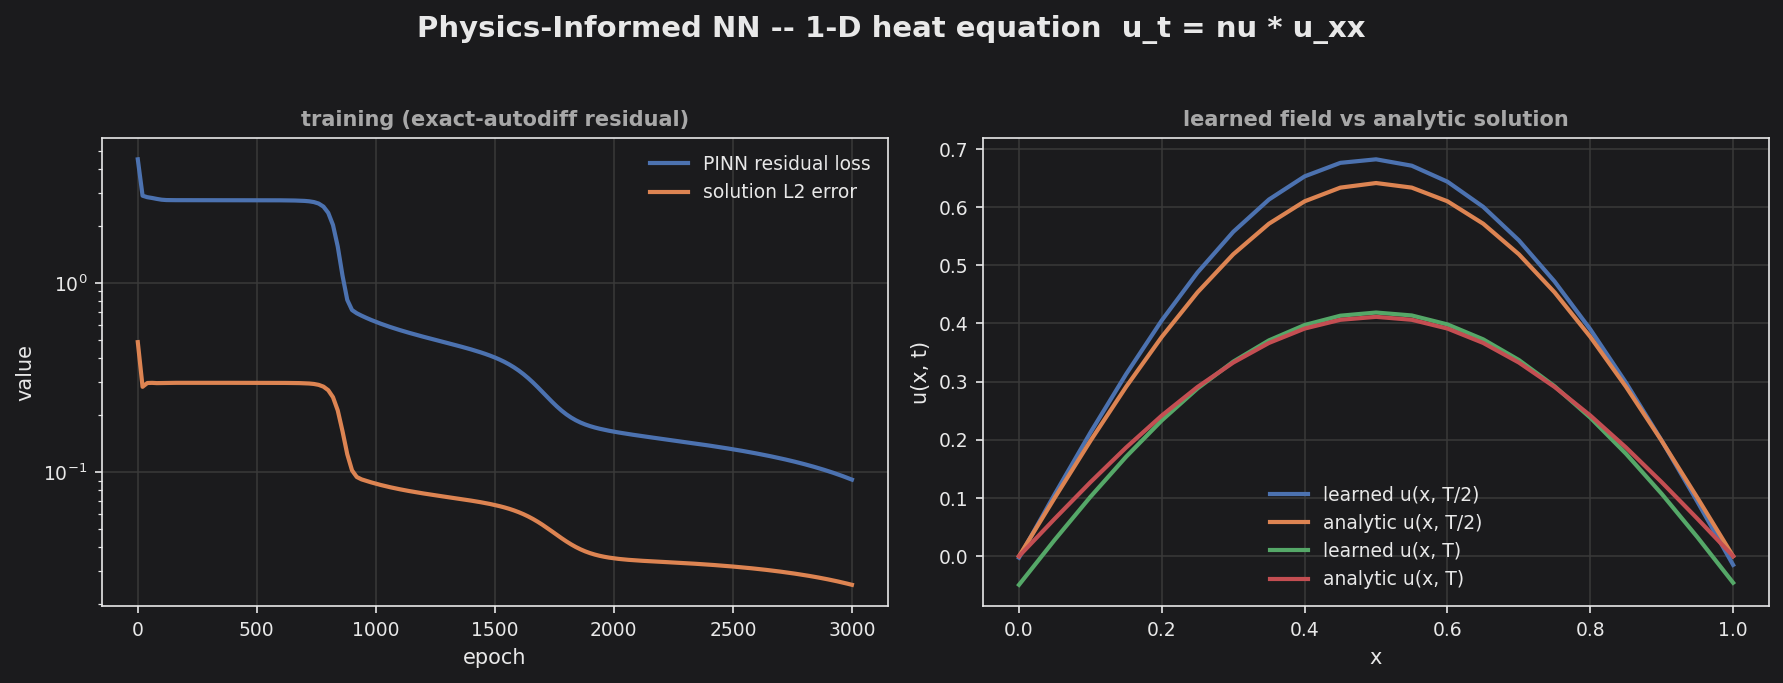
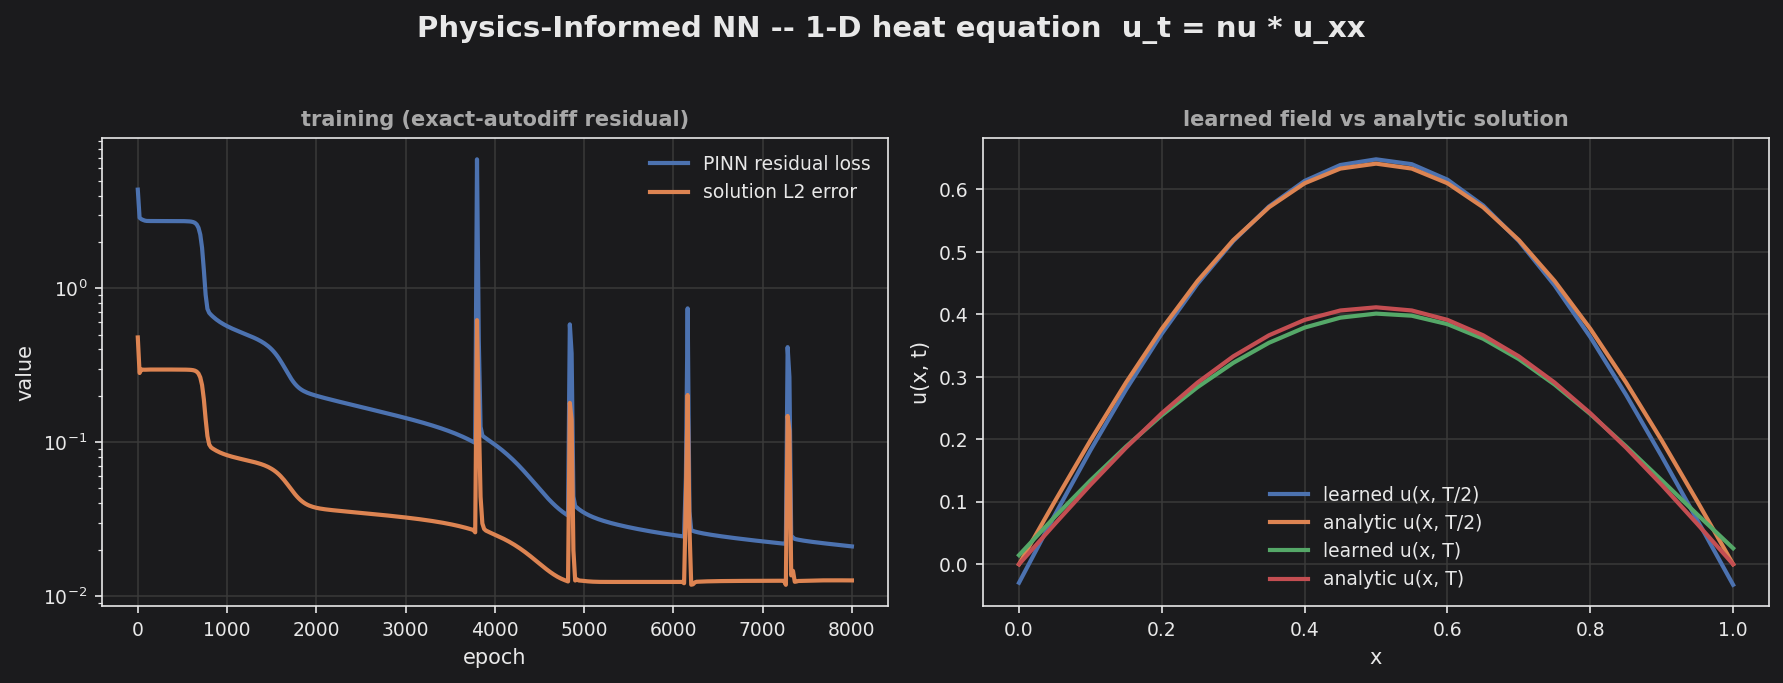
Tighten PINN heat-equation fit: H 8->12, 3000->8000 epochs
The learned field overshot the analytic solution at the t=T/2 peak and both the
residual loss and solution-L2 error were still descending at the 3000-epoch
cutoff. Wider net (H 8->12, NP 33->49) + train to the solution-L2 floor
(8000 epochs); solution L2 error halves (0.026 -> 0.0126, ~1.3% of range) and the
T/2 peak now overlaps the analytic curve. ~9.7s for `make train`.

(Tried denser collocation 11x9 -- it needed more epochs to match and ran ~22s
for no net gain, so kept the 7x5 grid. The unit_test/pinn convergence gate uses
its own H=8/3000 config and is unaffected.)

diff --git a/examples/pinn_heat1d/pinn_heat1d.cpp b/examples/pinn_heat1d/pinn_heat1d.cpp
@@ -144,7 +144,7 @@ namespace train {
 static const double PI = 3.14159265358979323846;
 static const double T_MAX = 0.30;
 
-static const std::size_t H  = 8;                          // hidden units
+static const std::size_t H  = 12;                         // hidden units
 typedef tinymind::pinn::PinnMlp<2, H, 1> Net;             // reusable PINN net
 static const std::size_t NP = Net::NumParams;             // 4H + 1
 
@@ -280,7 +280,7 @@ int run()
     }
 
     const double lr = 0.004, momentum = 0.85;
-    const int epochs = 3000;
+    const int epochs = 8000;
 
     const double loss0 = loss(p);
     const double err0 = solutionError(p);